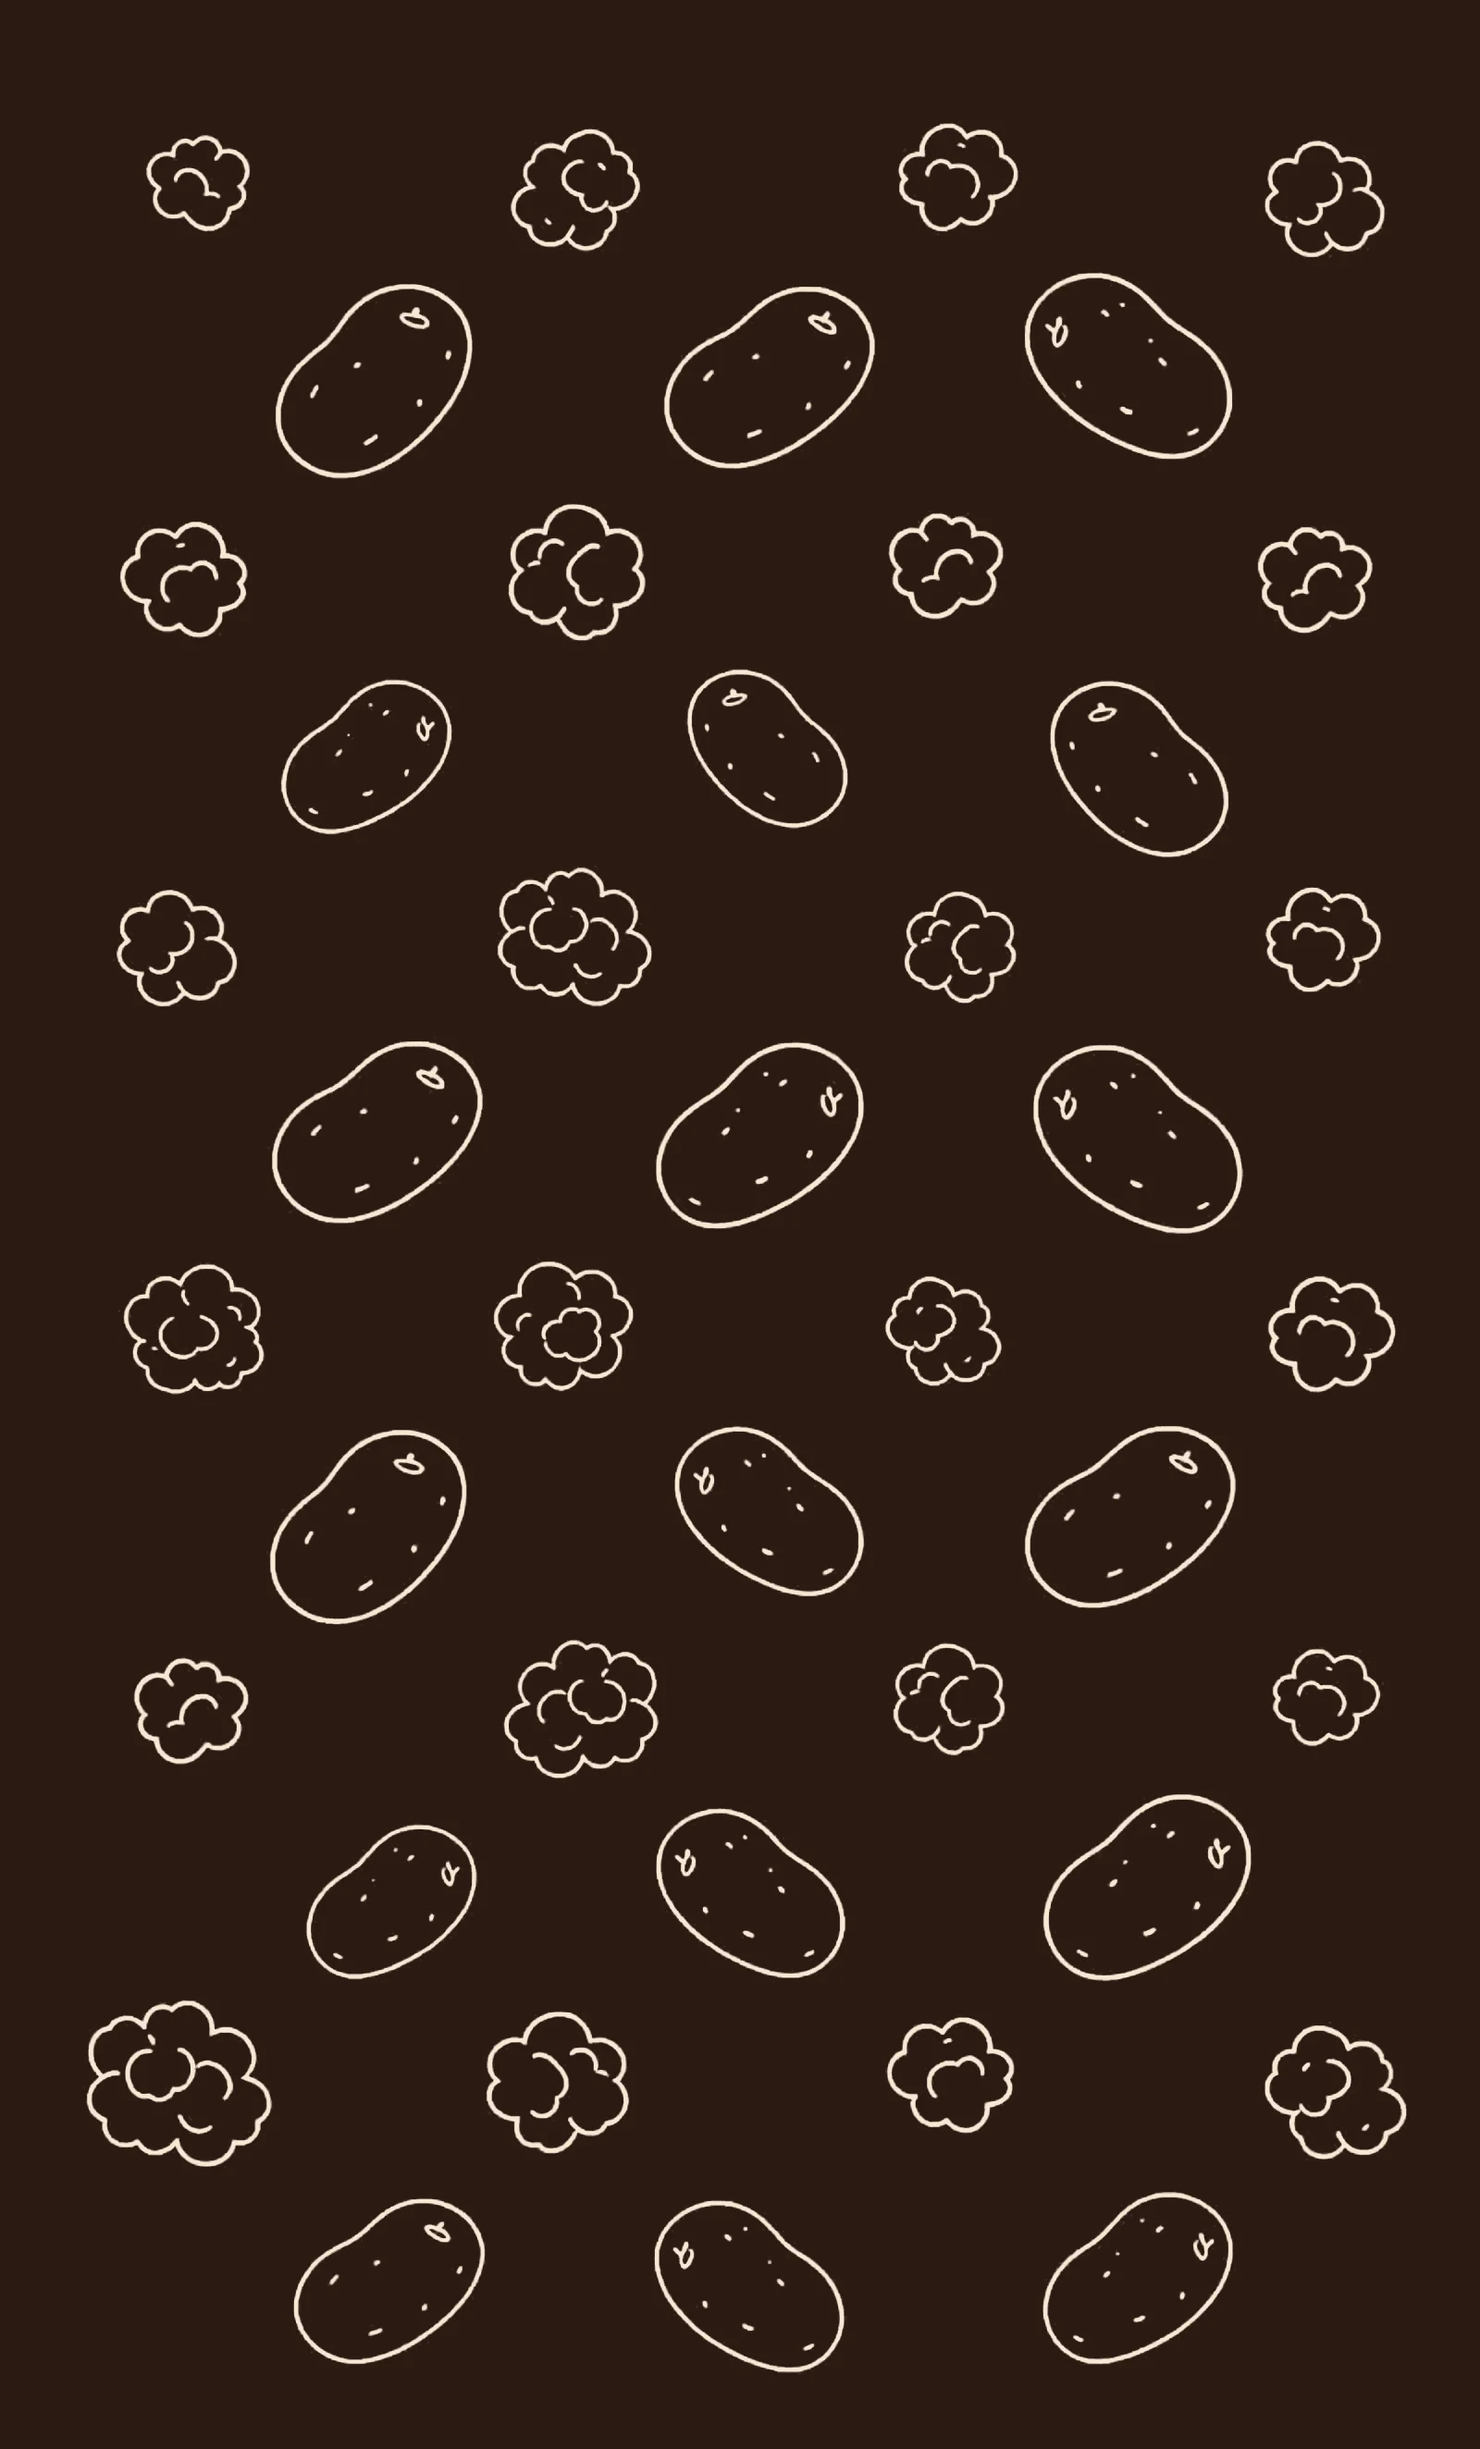
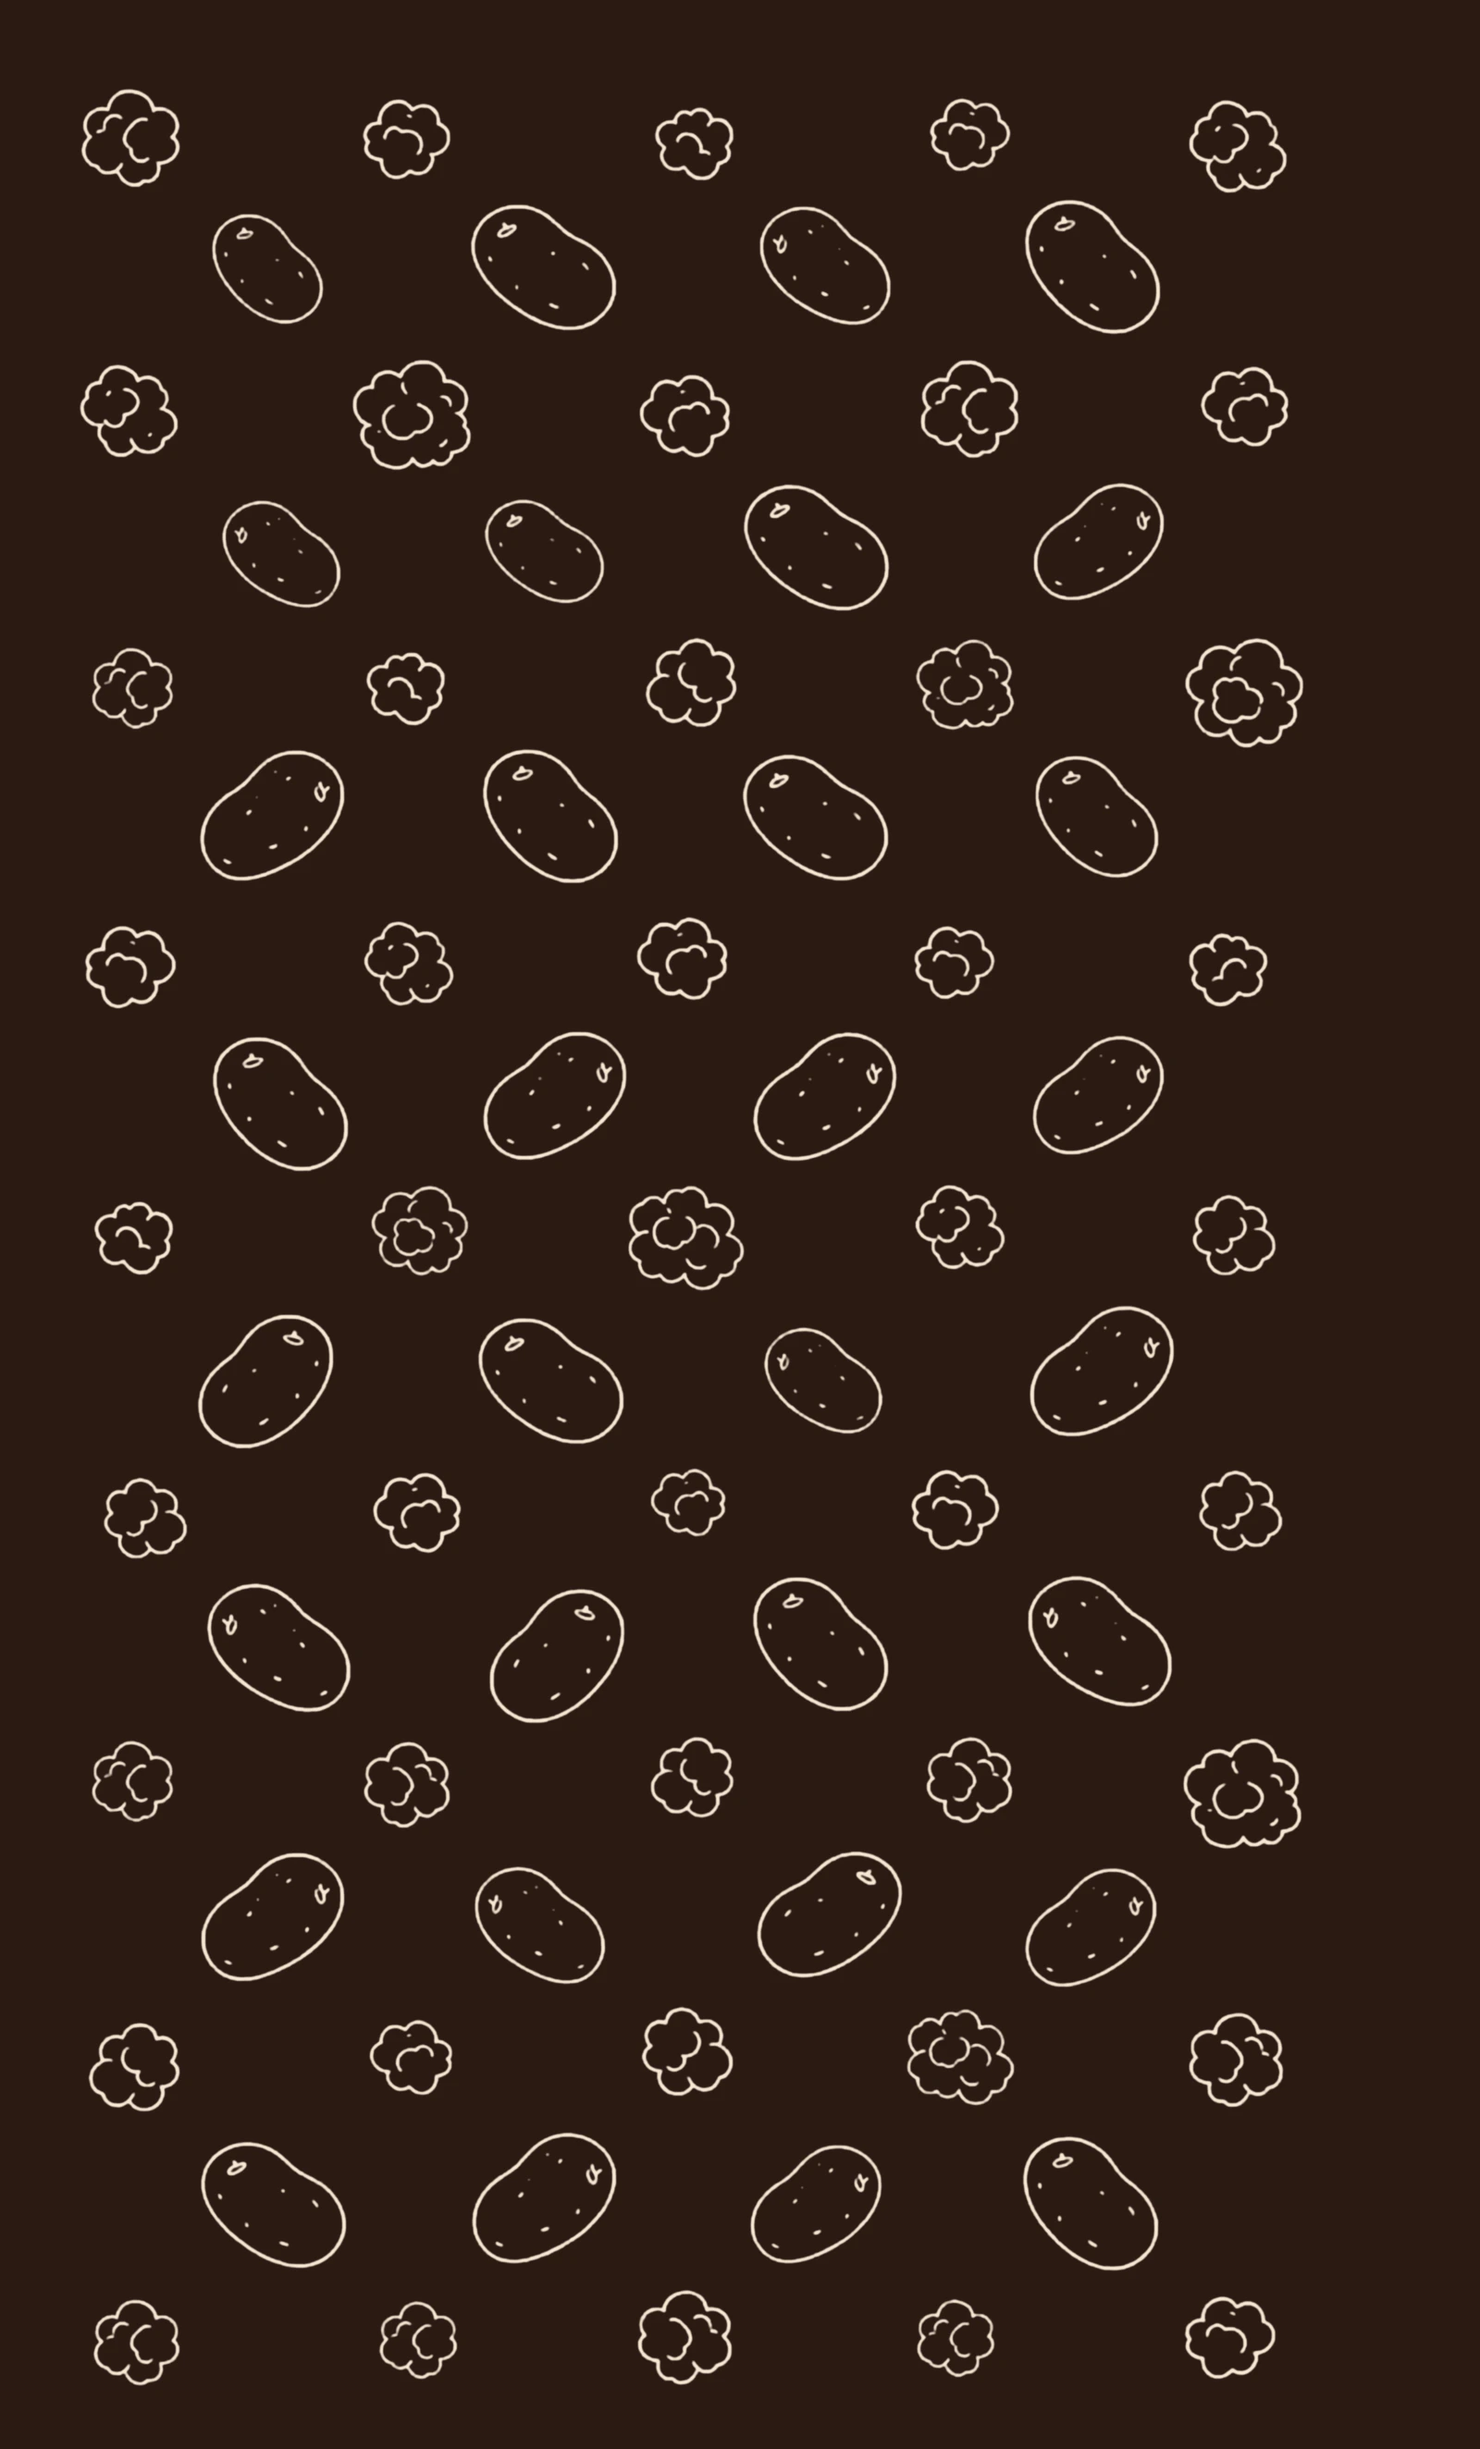
ce0349a9-ea3c-442f-a89b-5eb6bfa07501

diff --git a/worklog.md b/worklog.md
@@ -168,3 +168,19 @@ Work Log:
 Stage Summary:
 - 根因定性：Tailwind v4 扫描范围 = 所有非 gitignore 文件，文档/日志里出现类名原文等同于写在源码里
 - 防复发双保险：壁纸 URL 一律内联 style（AuthShell 头注释已写明）；文档/日志只做文字描述、绝不出现类名原文
+
+---
+Task ID: 9
+Agent: Z.ai Code (主 Agent)
+Task: ① 深色版线条毛边优化 ② 壁纸图案密度调高、图案调小；顺带发现并修复 env 配置文件丢失。
+
+Work Log:
+- 壁纸 v7（make-bg-light.mjs）：SCALE 0.52~0.64 → 0.36~0.44，点阵间距 290 → 210（密度约 ×1.9），抖动 ±14 → ±10；斜向点阵与土豆/爆米花棋盘交替不变。实测点阵 42 → 85 点，放置 43 → 77 只（土豆 32 / 爆米花 45）
+- 深色抗毛边（make-bg-dark.mjs v2）：毛边根因 = 线性 alpha 截断映射把柔和渐变两端削平 + 深底亮线的明暗辉度效应放大 8-bit 阶梯 + webp q85 色度抽样噪声。修复 = alpha 高斯模糊（[1,4,6,4,1]/16 两趟，纯 JS 防sharp吞alpha）抹平阶梯 → smoothstep S 曲线恢复核心实度与端点归零 → webp q92 + smartSubsample
+- 新旧同区域 3 倍放大对比图目检：新深色线条明显更顺滑，小图案边缘干净
+- 意外发现：浏览器实测时「尚未配置 Supabase」横幅复现。排查确认 .env.local 与 .env.local.example 在两轮会话之间（约 09:27）被外部删除（运行中 server 进程内存里还有旧 env，SSR 无横幅；但 Turbopack 监视 env 文件变动并失效重编译，客户端 bundle 以空值重编译 → 仅客户端出横幅）。已恢复两个 env 文件（真实凭据 + 模板），按 PID 全量清杀旧进程、清 .next 重启
+- 验证：SSR 与客户端横幅均消失；错误凭据登录 → toast「邮箱或密码不正确，请重新输入」（真实 Supabase 400 的中文映射，证明客户端 bundle 已内联真实配置）；深浅切换、主题持久化复测正常；新版壁纸手机 390x844 目检两版均自然清晰；页面 errors 零输出；dev.log 全 200
+
+Stage Summary:
+- 壁纸定稿 v7：更小更密（77 只）+ 深色版顺滑无毛边；调参入口集中在两个脚本头部常量
+- 运维警示：.env.local 被外部删除会导致「仅客户端」出现未配置横幅（Turbopack env 失效机制）；若横幅复现，第一步检查 .env.local 是否存在
